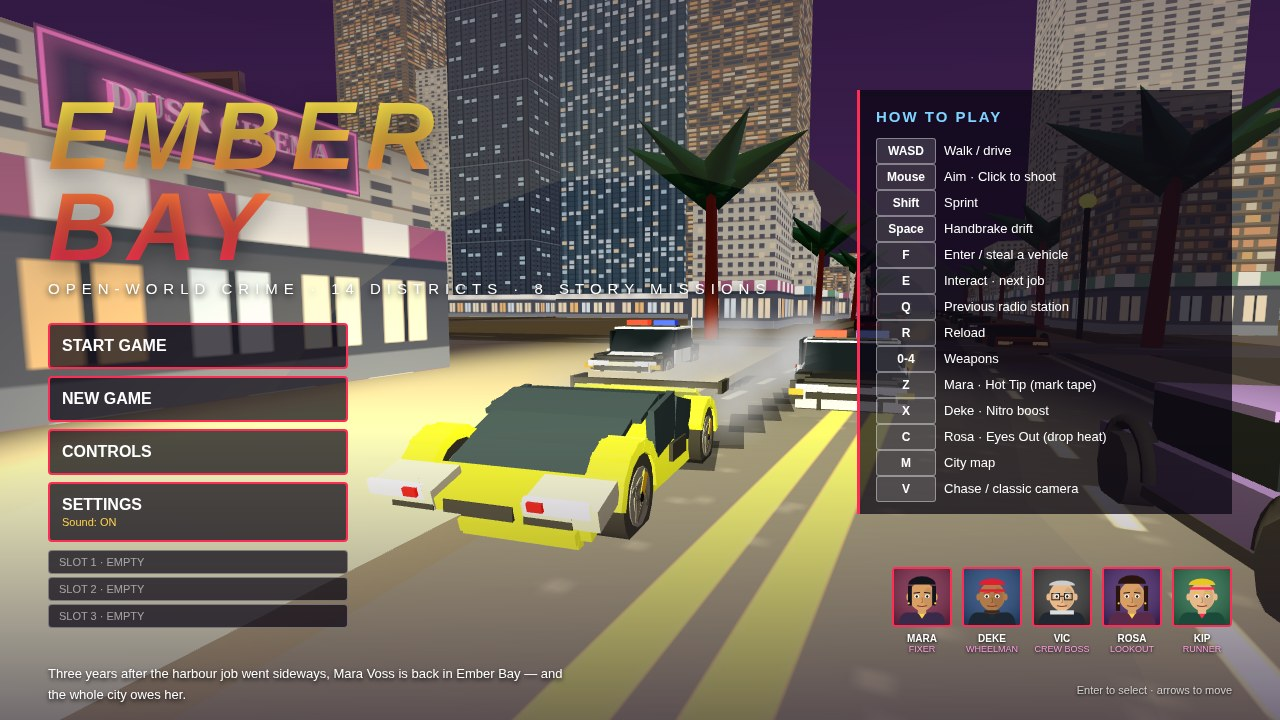
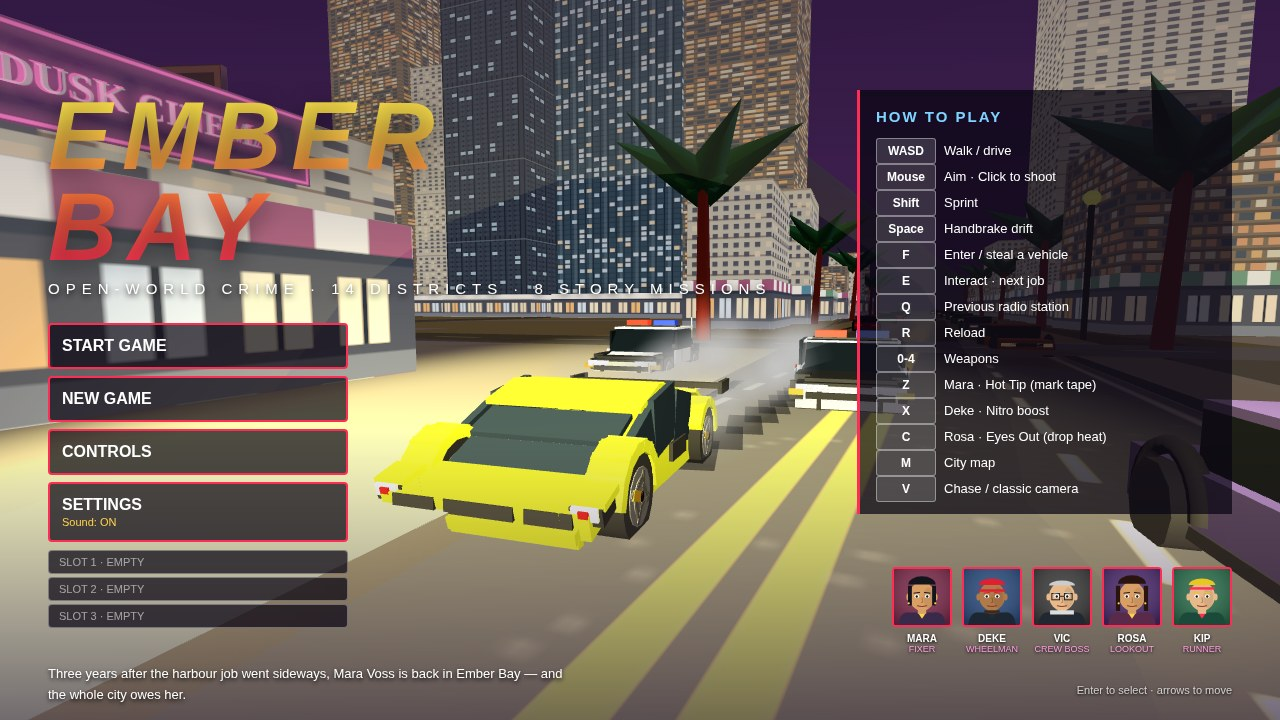
Ember Bay v18.25: raised wide teardrop canopy (peak 1.30), yellow roof, side glass to front wheel, tire-width covered lamps

diff --git a/game/src/vehicles.js b/game/src/vehicles.js
@@ -211,7 +211,7 @@ export function makeCar(G, kind, colorIdx = 0) {
     lamps(g, 2.62, -2.62, .9);
   } else if (kind === 'sport') {
     parts(g,[
-[2,.42,4.2,0,.38,-.5,0],[1,.07,1.5,0,.74,.85,0,.28],[2.1,.24,.6,0,.48,1.9,0,.28],[.45,.24,.16,.88,.48,1.99,0,.28,.8],[.45,.24,.16,-.88,.48,1.99,0,.28,-.8],[1.9,.08,.1,0,.26,2.15,0],[.7,.15,.07,0,.44,2.19,2],[.45,.15,.07,-.68,.44,2.19,2],[.45,.15,.07,.68,.44,2.19,2],[1.9,.12,.18,0,.34,2.17,0,.3],[.7,.2,.45,-.8,.55,2.02,3,.3],[.7,.2,.45,.8,.55,2.02,3,.3],[.6,.14,.05,-.8,.58,2.28,5,.3],[.6,.14,.05,.8,.58,2.28,5,.3],[.14,.08,.04,-.62,.58,2.32,6,.3],[.14,.08,.04,.62,.58,2.32,6,.3],[1.6,.06,.44,0,.71,1.35,1,.42],[1.7,.06,.54,0,.9,.9,1,.38],[1.9,.06,.63,0,1.09,.35,1,.28],[1.9,.06,.6,0,1.15,-.25,1,-.09],[1.7,.06,.57,0,1.05,-.83,1,-.25],[1.6,.06,.58,0,.89,-1.38,1,-.32],[1.5,.06,.42,0,.74,-1.85,1,-.29],[.1,.56,.8,-.97,.86,0,1,.15],[.1,.56,.8,.97,.86,0,1,.15],[.1,.52,.7,-.97,.79,-.75,1,-.2],[.1,.52,.7,.97,.79,-.75,1,-.2],[1.9,.06,1,0,.8,-2.15,0,-.45],[.06,.22,.6,-1.02,.48,-.5,2],[.06,.22,.6,1.02,.48,-.5,2],[2.4,.08,.55,0,1.01,-2.4,2,-.1],[.06,.18,.55,-1.2,1.01,-2.4,2],[.06,.18,.55,1.2,1.01,-2.4,2],[.08,.3,.08,-.7,.82,-2.4,2],[.08,.3,.08,.7,.82,-2.4,2],[1.9,.12,.06,0,.6,-2.58,6],[1.8,.12,.2,0,.28,-2.5,2]],[paint,glass,dark,chrome,wht,head,tail,g2]);
+[2,.42,4.2,0,.38,-.5,0],[1,.07,1.5,0,.74,.85,0,.28],[2.1,.24,.6,0,.48,1.9,0,.28],[.45,.24,.16,.88,.48,1.99,0,.28,.8],[.45,.24,.16,-.88,.48,1.99,0,.28,-.8],[1.9,.08,.1,0,.26,2.15,0],[.7,.15,.07,0,.44,2.19,2],[.45,.15,.07,-.68,.44,2.19,2],[.45,.15,.07,.68,.44,2.19,2],[1.9,.12,.18,0,.34,2.17,0,.3],[.3,.16,.28,-1,.52,2.02,2,.28],[.3,.16,.28,1,.52,2.02,2,.28],[.34,.07,.32,-1,.62,2,0,.28],[.34,.07,.32,1,.62,2,0,.28],[.24,.12,.04,-1,.52,2.18,5,.28],[.24,.12,.04,1,.52,2.18,5,.28],[.09,.06,.03,-1,.52,2.21,6,.28],[.09,.06,.03,1,.52,2.21,6,.28],[1.6,.06,.44,0,.71,1.35,1,.42],[1.7,.06,.54,0,.95,.9,1,.38],[1.9,.06,.63,0,1.2,.35,0,.28],[1.9,.06,.6,0,1.27,-.25,0,-.09],[1.7,.06,.57,0,1.17,-.83,0,-.25],[1.6,.06,.58,0,.93,-1.38,1,-.32],[1.5,.06,.42,0,.74,-1.85,1,-.29],[.1,.68,.8,-.97,.92,0,1,.15],[.1,.68,.8,.97,.92,0,1,.15],[.1,.55,.9,-.97,.7,.85,1,.39],[.1,.55,.9,.97,.7,.85,1,.39],[.1,.62,.7,-.97,.83,-.75,1,-.2],[.1,.62,.7,.97,.83,-.75,1,-.2],[1.9,.06,1,0,.8,-2.15,0,-.45],[.06,.22,.6,-1.02,.48,-.5,2],[.06,.22,.6,1.02,.48,-.5,2],[2.4,.08,.55,0,1.01,-2.4,2,-.1],[.06,.18,.55,-1.2,1.01,-2.4,2],[.06,.18,.55,1.2,1.01,-2.4,2],[.08,.3,.08,-.7,.82,-2.4,2],[.08,.3,.08,.7,.82,-2.4,2],[1.9,.12,.06,0,.6,-2.58,6],[1.8,.12,.2,0,.28,-2.5,2]],[paint,glass,dark,chrome,wht,head,tail,g2]);
     const arch=(x,z,A)=>{for(const d of A){const a=d*Math.PI/180;box(.38,.12,.3,paint,x,.42+.47*Math.cos(a),z+.47*Math.sin(a),g,a,0,0);}};
     const sw=(x,z,A)=>{const w=sportWheel(.42,0xffc21c);w.position.set(x,.42,z);g.add(w);wheels.push(w);arch(x,z,A);};
     const AF=[-72,-48,-24,0,24,48,72],AR=[-72,-48,-24,0,24,48];
